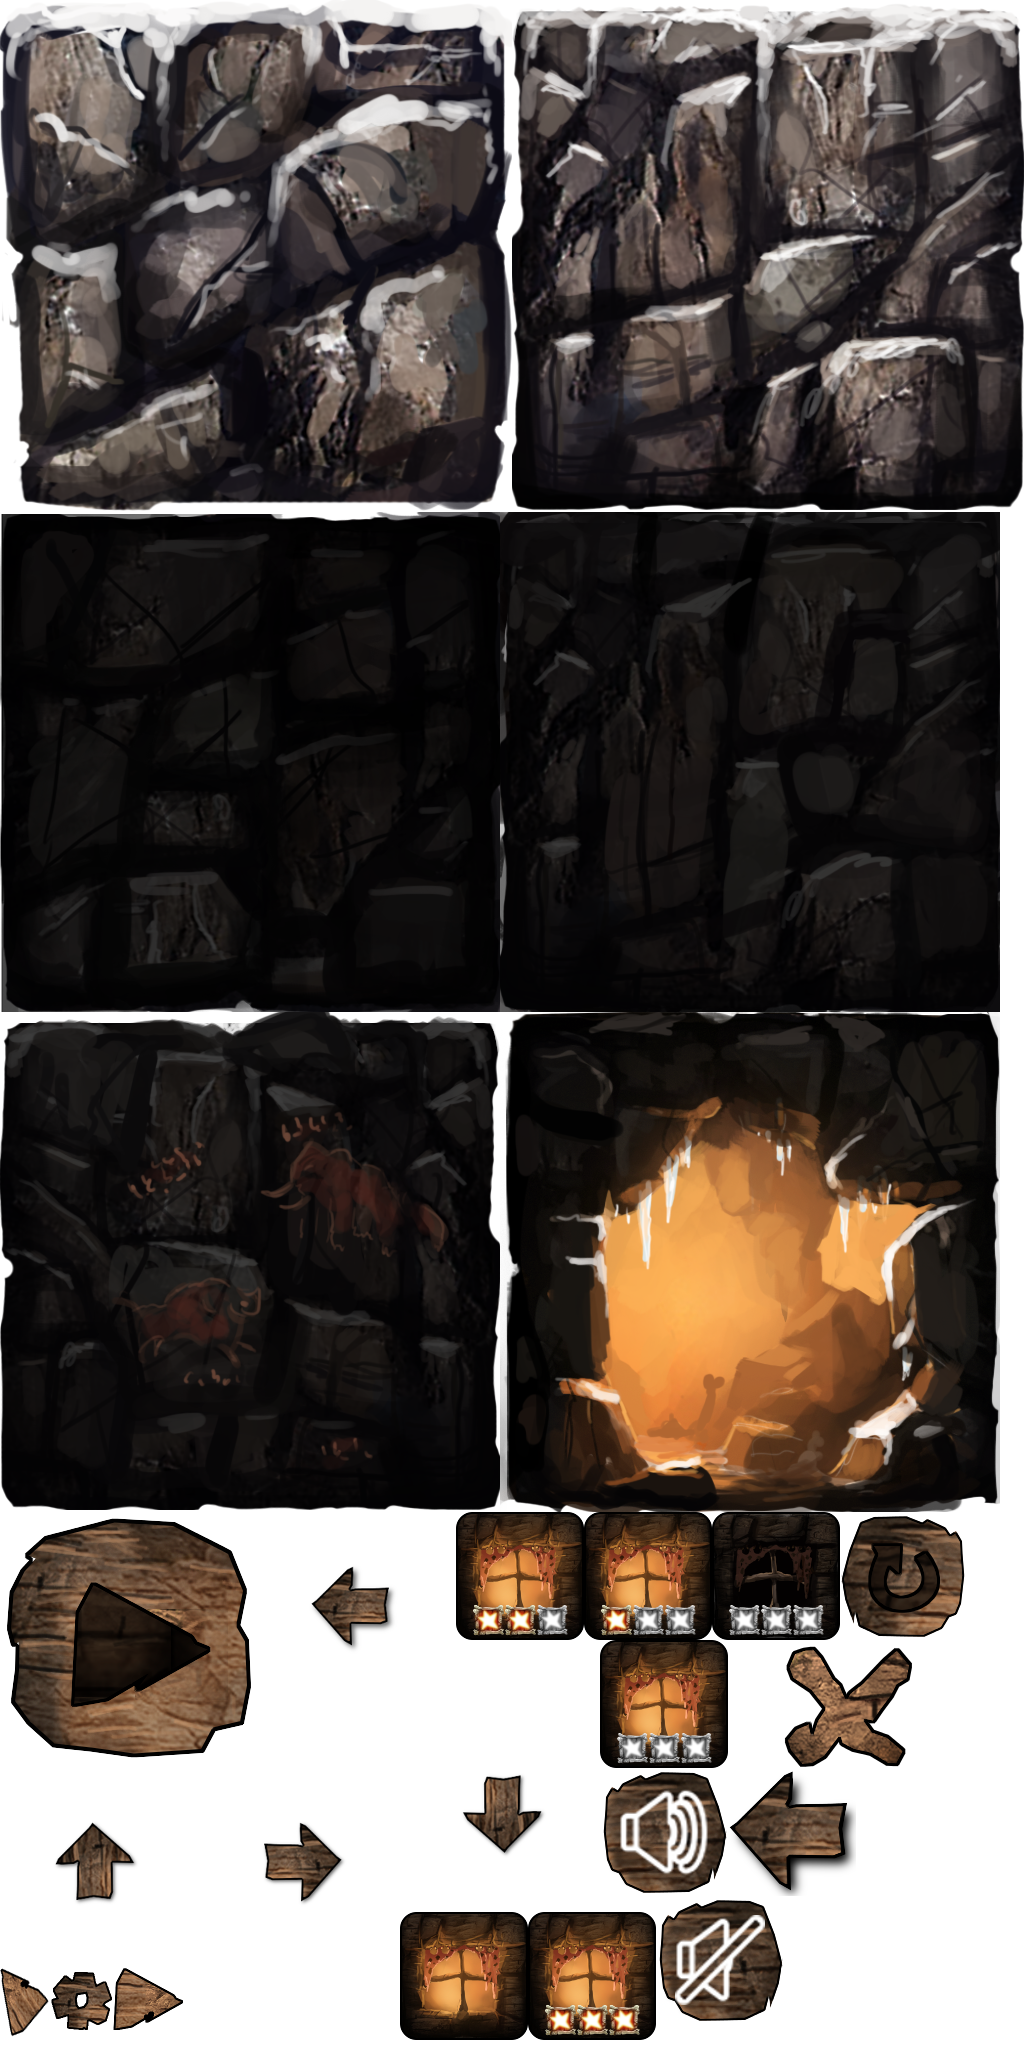
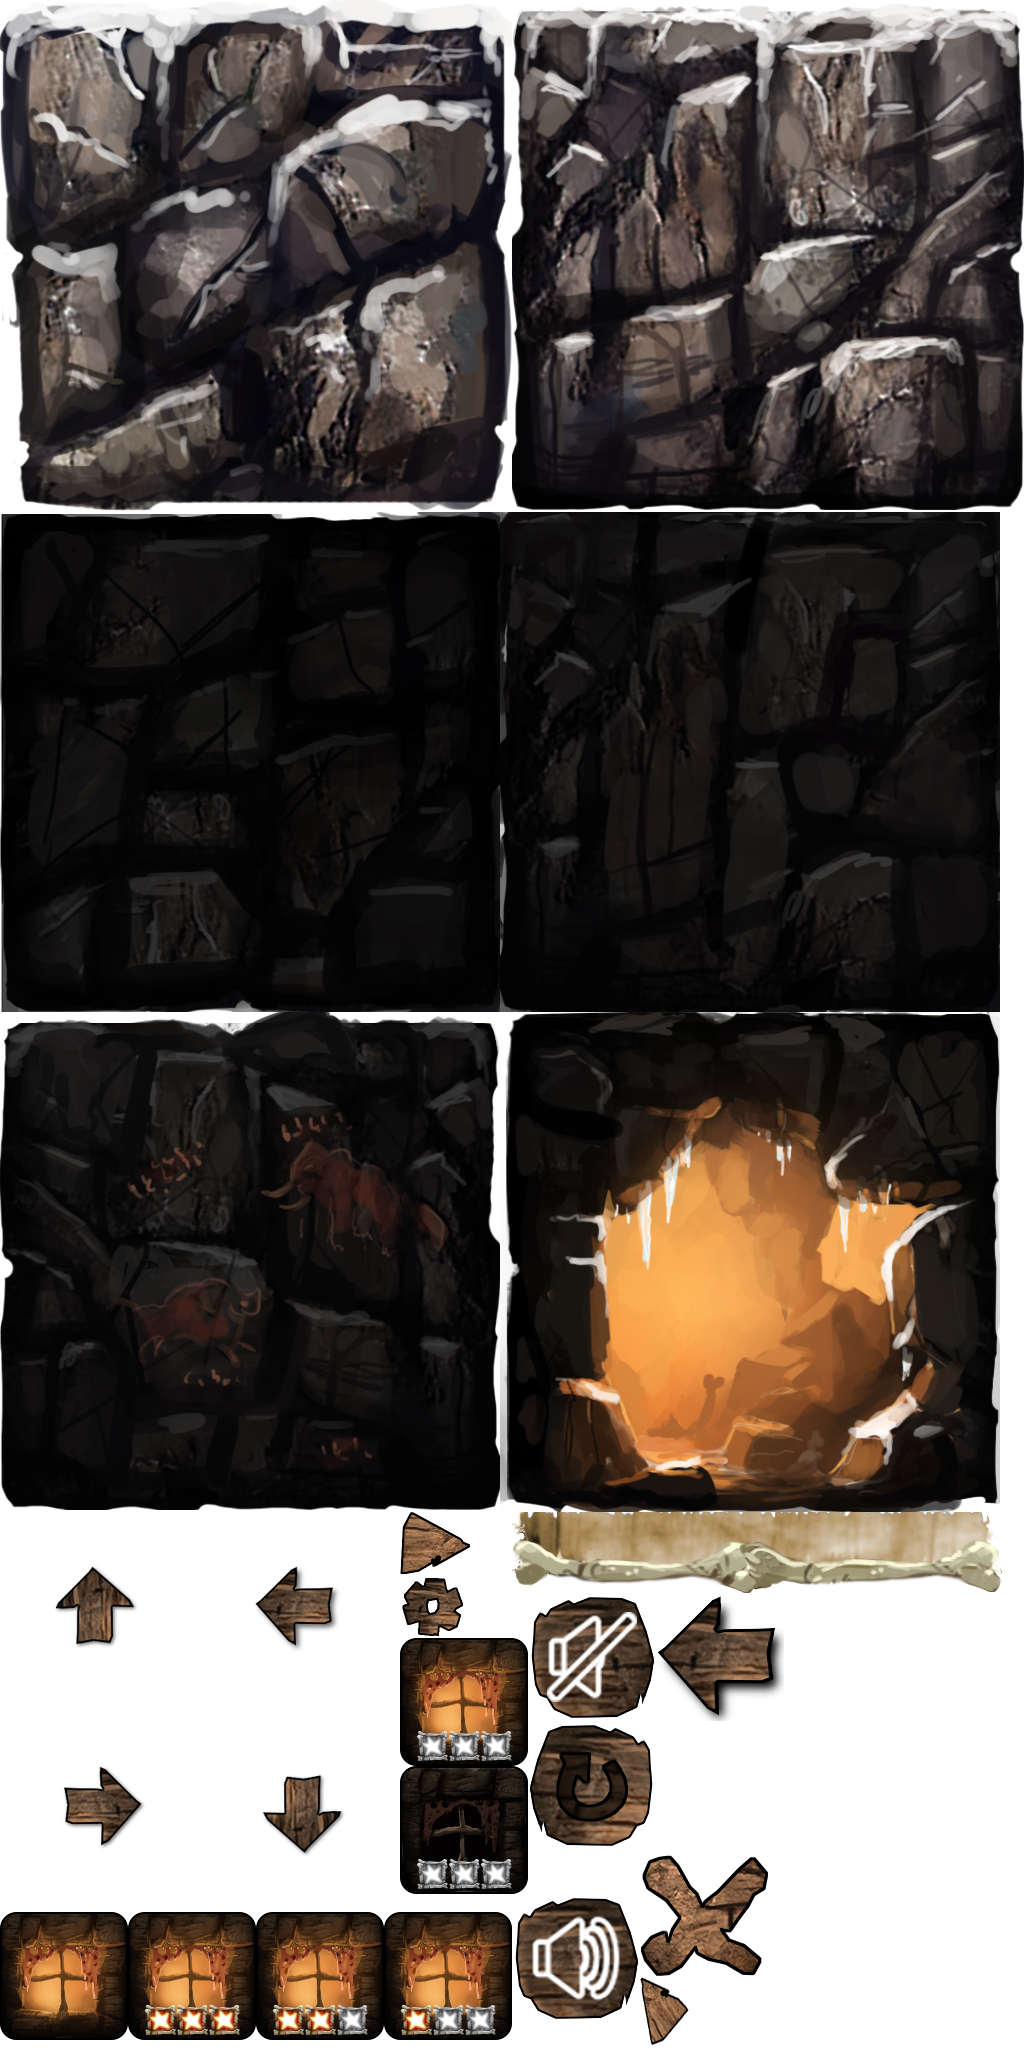
* allow to provide custom huds

Changed region(s): [[0.0, 0.7188, 1.0, 1.0]]

diff --git a/src/engine/client/ui/windows/IUIMapWindow.cpp b/src/engine/client/ui/windows/IUIMapWindow.cpp
@@ -48,25 +48,28 @@ IUIMapWindow::IUIMapWindow (IFrontend *frontend, ServiceProvider& serviceProvide
 	_onPop = CMD_CL_DISCONNECT;
 	_nodeMap->setId(UINODE_MAP);
 	add(_nodeMap);
+}
 
+void IUIMapWindow::initHudNodes()
+{
 	const float barHeight = 12.0f / _frontend->getHeight();
 	const int spriteHeight = 30;
 	const float barWidth = 102.0f / _frontend->getWidth();
 	const int spriteNodeOffset = 15;
 
-	_panel = new UINode(frontend);
+	UINode* _panel = new UINode(_frontend);
 	UIHBoxLayout* layout = new UIHBoxLayout();
 	layout->setSpacing(0.02f);
 	_panel->setLayout(layout);
 	_panel->setStandardPadding();
 	_panel->setAlignment(NODE_ALIGN_TOP | NODE_ALIGN_CENTER);
 
-	_points = new UINodePoint(frontend, 150);
+	UINodePoint* _points = new UINodePoint(_frontend, 150);
 	_points->setLabel("00000");
 	_points->setId(UINODE_POINTS);
 	_panel->add(_points);
 
-	_timeBar = new UINodeBar(frontend);
+	UINodeBar* _timeBar = new UINodeBar(_frontend);
 	_timeBar->setId(UINODE_SECONDS_REMAINING);
 	const Color timeBarColor = { 1.0f, 1.0f, 1.0f, 0.5f };
 	_timeBar->setSize(barWidth, barHeight);
@@ -75,7 +78,7 @@ IUIMapWindow::IUIMapWindow (IFrontend *frontend, ServiceProvider& serviceProvide
 	_timeBar->setBorderColor(colorWhite);
 	_panel->add(_timeBar);
 
-	_hitpointsBar = new UINodeBar(frontend);
+	UINodeBar* _hitpointsBar = new UINodeBar(_frontend);
 	_hitpointsBar->setId(UINODE_HITPOINTS);
 	const int maxHitpoints = Config.getMaxHitpoints();
 	_hitpointsBar->setMax(maxHitpoints);
@@ -86,7 +89,7 @@ IUIMapWindow::IUIMapWindow (IFrontend *frontend, ServiceProvider& serviceProvide
 
 	_panel->add(_hitpointsBar);
 
-	_livesSprite = new UINodeSprite(frontend, spriteHeight, spriteHeight);
+	UINodeSprite* _livesSprite = new UINodeSprite(_frontend, spriteHeight, spriteHeight);
 	_livesSprite->setId(UINODE_LIVES);
 	_livesSprite->setSpriteOffset(spriteHeight);
 	const SpritePtr sprite = UI::get().loadSprite("icon-heart");
@@ -95,11 +98,11 @@ IUIMapWindow::IUIMapWindow (IFrontend *frontend, ServiceProvider& serviceProvide
 	}
 	_panel->add(_livesSprite);
 
-	UINodeSprite *collected = new UINodeSprite(frontend, spriteHeight, spriteHeight);
+	UINodeSprite *collected = new UINodeSprite(_frontend, spriteHeight, spriteHeight);
 	collected->setId(UINODE_COLLECTED);
 	_panel->add(collected);
 
-	_packagesSprite = new UINodeSprite(frontend, spriteHeight, spriteHeight);
+	UINodeSprite* _packagesSprite = new UINodeSprite(_frontend, spriteHeight, spriteHeight);
 	_packagesSprite->setId(UINODE_PACKAGES);
 	_packagesSprite->setSpriteOffset(spriteNodeOffset);
 	_panel->add(_packagesSprite);
@@ -109,6 +112,7 @@ IUIMapWindow::IUIMapWindow (IFrontend *frontend, ServiceProvider& serviceProvide
 
 void IUIMapWindow::init()
 {
+	initHudNodes();
 	if (System.hasTouch()) {
 		UINode* node = getFingerControl();
 		add(node);
@@ -157,7 +161,9 @@ void IUIMapWindow::onActive ()
 	_cursorActive = UI::get().isCursorVisible();
 	if (_cursorActive && !_startButton->isVisible())
 		UI::get().showCursor(false);
-	_livesSprite->setVisible(Config.isModeHard());
+	UINode* lives = getNode(UINODE_LIVES);
+	if (lives != nullptr)
+		lives->setVisible(Config.isModeHard());
 
 	//if (!getSystem().hasItem(PAYMENT_ADFREE)) {
 	//	const int h = _frontend->getHeight() - getSystem().getAdHeight();

diff --git a/src/cavepacker/client/ui/windows/UIMapWindow.cpp b/src/cavepacker/client/ui/windows/UIMapWindow.cpp
@@ -2,15 +2,31 @@
 #include "cavepacker/client/ui/nodes/UINodeMap.h"
 #include "engine/client/ui/nodes/UINodeBar.h"
 #include "engine/client/ui/nodes/UINodeSprite.h"
+#include "engine/client/ui/nodes/UINodePoint.h"
 #include "engine/client/ui/nodes/UINodeMapOnScreenCursorControl.h"
+#include "engine/client/ui/layouts/UIHBoxLayout.h"
 
 UIMapWindow::UIMapWindow (IFrontend *frontend, ServiceProvider& serviceProvider, CampaignManager& campaignManager, ClientMap& map) :
 	IUIMapWindow(frontend, serviceProvider, campaignManager, map, new UINodeMap(frontend, serviceProvider, campaignManager, 0, 0, frontend->getWidth(), frontend->getHeight(), map))
 {
 	init();
-	_timeBar->setVisible(false);
-	_hitpointsBar->setVisible(false);
-	_livesSprite->setVisible(false);
+
+	_musicFile = "";
+}
+
+void UIMapWindow::initHudNodes ()
+{
+	UINode* panel = new UINode(_frontend);
+	panel->setImage("bones");
+	panel->setStandardPadding();
+	panel->setAlignment(NODE_ALIGN_TOP | NODE_ALIGN_CENTER);
+	add(panel);
+
+	UINodePoint* points = new UINodePoint(_frontend, 150);
+	points->setLabel("00000");
+	points->setPos(panel->getX() + 0.1f, panel->getY());
+	points->setId(UINODE_POINTS);
+	add(points);
 }
 
 UINode* UIMapWindow::getFingerControl ()

diff --git a/src/engine/client/ui/windows/IUIMapWindow.h b/src/engine/client/ui/windows/IUIMapWindow.h
@@ -14,9 +14,6 @@
 class UINode;
 class UINodeLabel;
 class IUINodeMap;
-class UINodePoint;
-class UINodeBar;
-class UINodeSprite;
 class CampaignManager;
 class ServiceProvider;
 class UINodeButtonText;
@@ -27,12 +24,6 @@ class IUIMapWindow: public UIWindow {
 protected:
 	friend class UIMapHelpWindow;
 	IUINodeMap *_nodeMap;
-	UINode *_panel;
-	UINodePoint *_points;
-	UINodeBar *_timeBar;
-	UINodeBar *_hitpointsBar;
-	UINodeSprite *_livesSprite;
-	UINodeSprite *_packagesSprite;
 	IMapControl *_mapControl;
 	UINodeButtonText *_startButton;
 	UINodeLabel *_waitLabel;
@@ -43,6 +34,7 @@ protected:
 	virtual UINode* getControl ();
 	// call this in your derived classes
 	void init();
+	virtual void initHudNodes();
 
 public:
 	IUIMapWindow (IFrontend *frontend, ServiceProvider& serviceProvider, CampaignManager& campaignManager, ClientMap& map, IUINodeMap* nodeMap);

diff --git a/src/cavepacker/client/ui/windows/UIMapWindow.h b/src/cavepacker/client/ui/windows/UIMapWindow.h
@@ -5,6 +5,7 @@
 class UIMapWindow: public IUIMapWindow {
 protected:
 	UINode* getFingerControl () override;
+	void initHudNodes () override;
 public:
 	UIMapWindow (IFrontend *frontend, ServiceProvider& serviceProvider, CampaignManager& campaignManager, ClientMap& map);
 };
